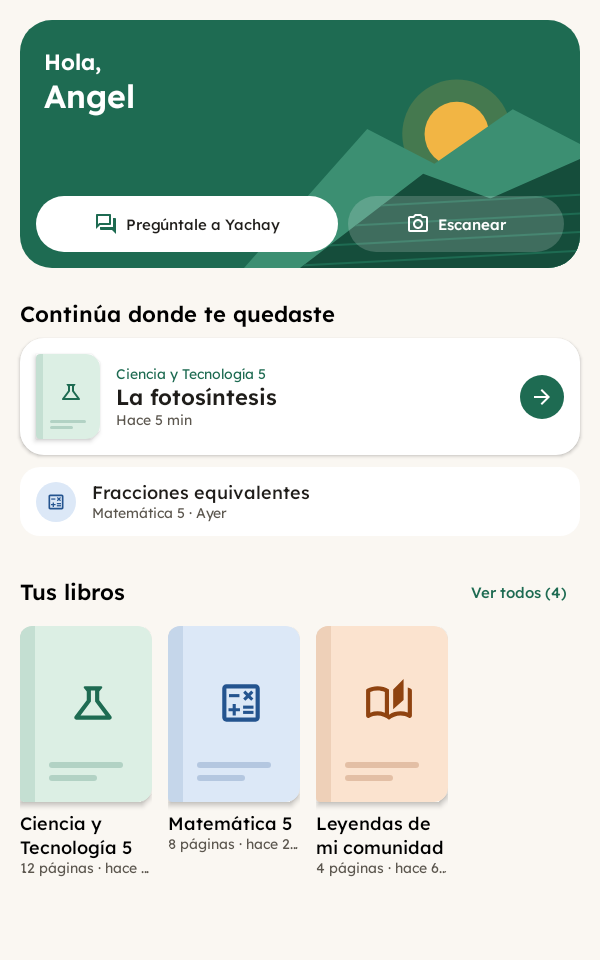
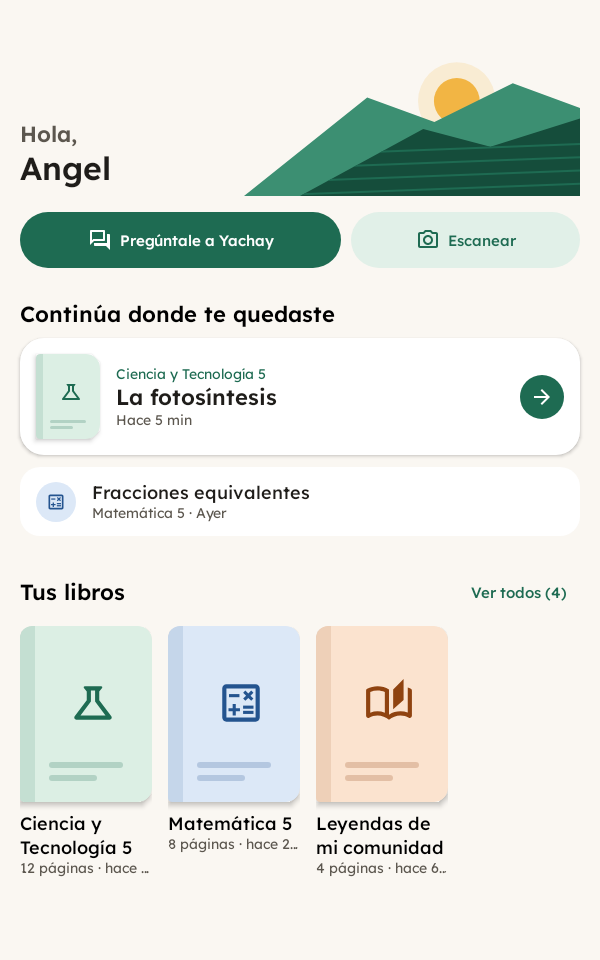
feat(ui): drop the home hero background
Place the greeting directly on the page with the landscape as a free-standing illustration, and use filled and tonal buttons for the two main actions.

Changed region(s): [[0.03, 0.0, 0.99, 0.2812]]

diff --git a/app/src/main/java/pe/edu/unmsm/yachaytext/ui/inicio/InicioScreen.kt b/app/src/main/java/pe/edu/unmsm/yachaytext/ui/inicio/InicioScreen.kt
@@ -270,24 +270,21 @@ private fun ColumnaLibros(estado: InicioUiState, acciones: AccionesInicio, ahora
 /** Saludo y las dos acciones principales en un solo bloque: el ancla visual de Inicio. */
 @Composable
 private fun Portada(nombre: String?, acciones: AccionesInicio, alto: Dp, modifier: Modifier = Modifier) {
-    Box(
-        modifier
-            .fillMaxWidth()
-            .height(alto)
-            .clip(RoundedCornerShape(32.dp))
-            .background(Brand),
-    ) {
-        PaisajeAndino()
-        Column(Modifier.fillMaxWidth(0.66f).padding(start = 24.dp, top = 28.dp)) {
-            Text(if (nombre != null) "Hola," else "Hola", style = MaterialTheme.typography.titleLarge, color = Paper)
-            Text(nombre ?: "¿Qué aprendemos hoy?", style = MaterialTheme.typography.displaySmall, color = Paper, modifier = Modifier.semantics { heading() })
+    // Sin recuadro: el saludo va directo sobre el fondo y el paisaje queda como ilustración suelta.
+    Column(modifier.fillMaxWidth()) {
+        Box(Modifier.fillMaxWidth().height(alto - 72.dp)) {
+            PaisajeAndino()
+            Column(Modifier.fillMaxWidth(0.62f).align(Alignment.BottomStart).padding(bottom = 8.dp)) {
+                Text(if (nombre != null) "Hola," else "Hola", style = MaterialTheme.typography.titleLarge, color = TextSecondary)
+                Text(nombre ?: "¿Qué aprendemos hoy?", style = MaterialTheme.typography.displaySmall, color = Ink, modifier = Modifier.semantics { heading() })
+            }
         }
         Row(
-            Modifier.align(Alignment.BottomStart).widthIn(max = 560.dp).fillMaxWidth().padding(16.dp),
+            Modifier.widthIn(max = 560.dp).fillMaxWidth().padding(top = 16.dp),
             horizontalArrangement = Arrangement.spacedBy(10.dp),
         ) {
-            AccionPortada("Pregúntale a Yachay", Icons.Outlined.Forum, Paper, Ink, acciones.onPreguntar, Modifier.weight(1.4f))
-            AccionPortada("Escanear", Icons.Outlined.CameraAlt, Paper.copy(alpha = 0.18f), Paper, acciones.onEscanear, Modifier.weight(1f))
+            AccionPortada("Pregúntale a Yachay", Icons.Outlined.Forum, Brand, Paper, acciones.onPreguntar, Modifier.weight(1.4f))
+            AccionPortada("Escanear", Icons.Outlined.CameraAlt, BrandSoft, Brand, acciones.onEscanear, Modifier.weight(1f))
         }
     }
 }
